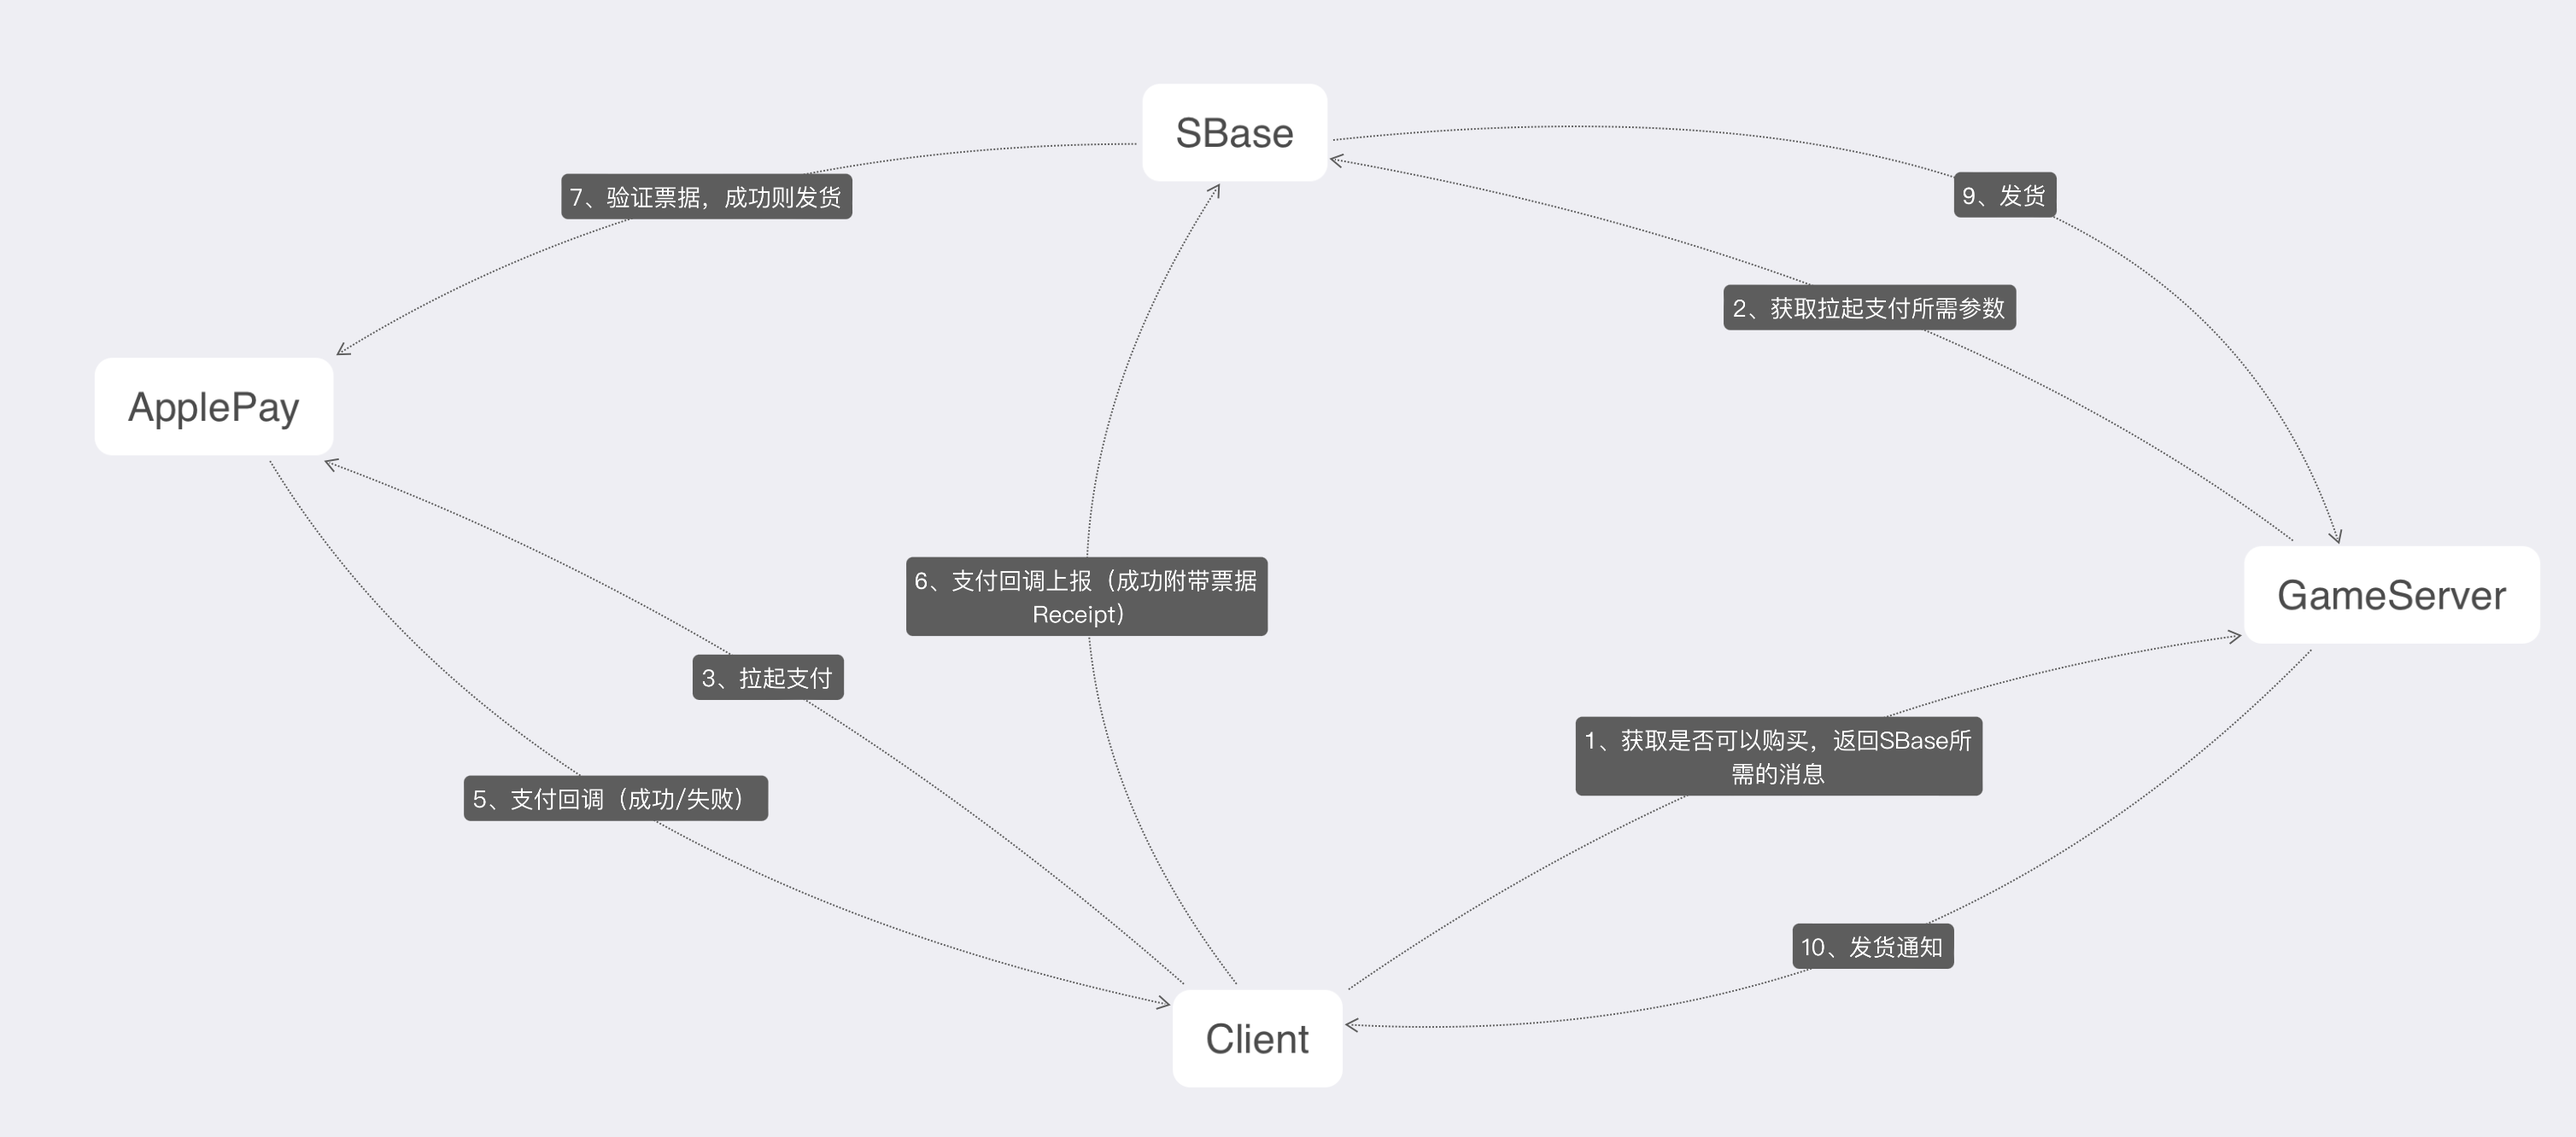
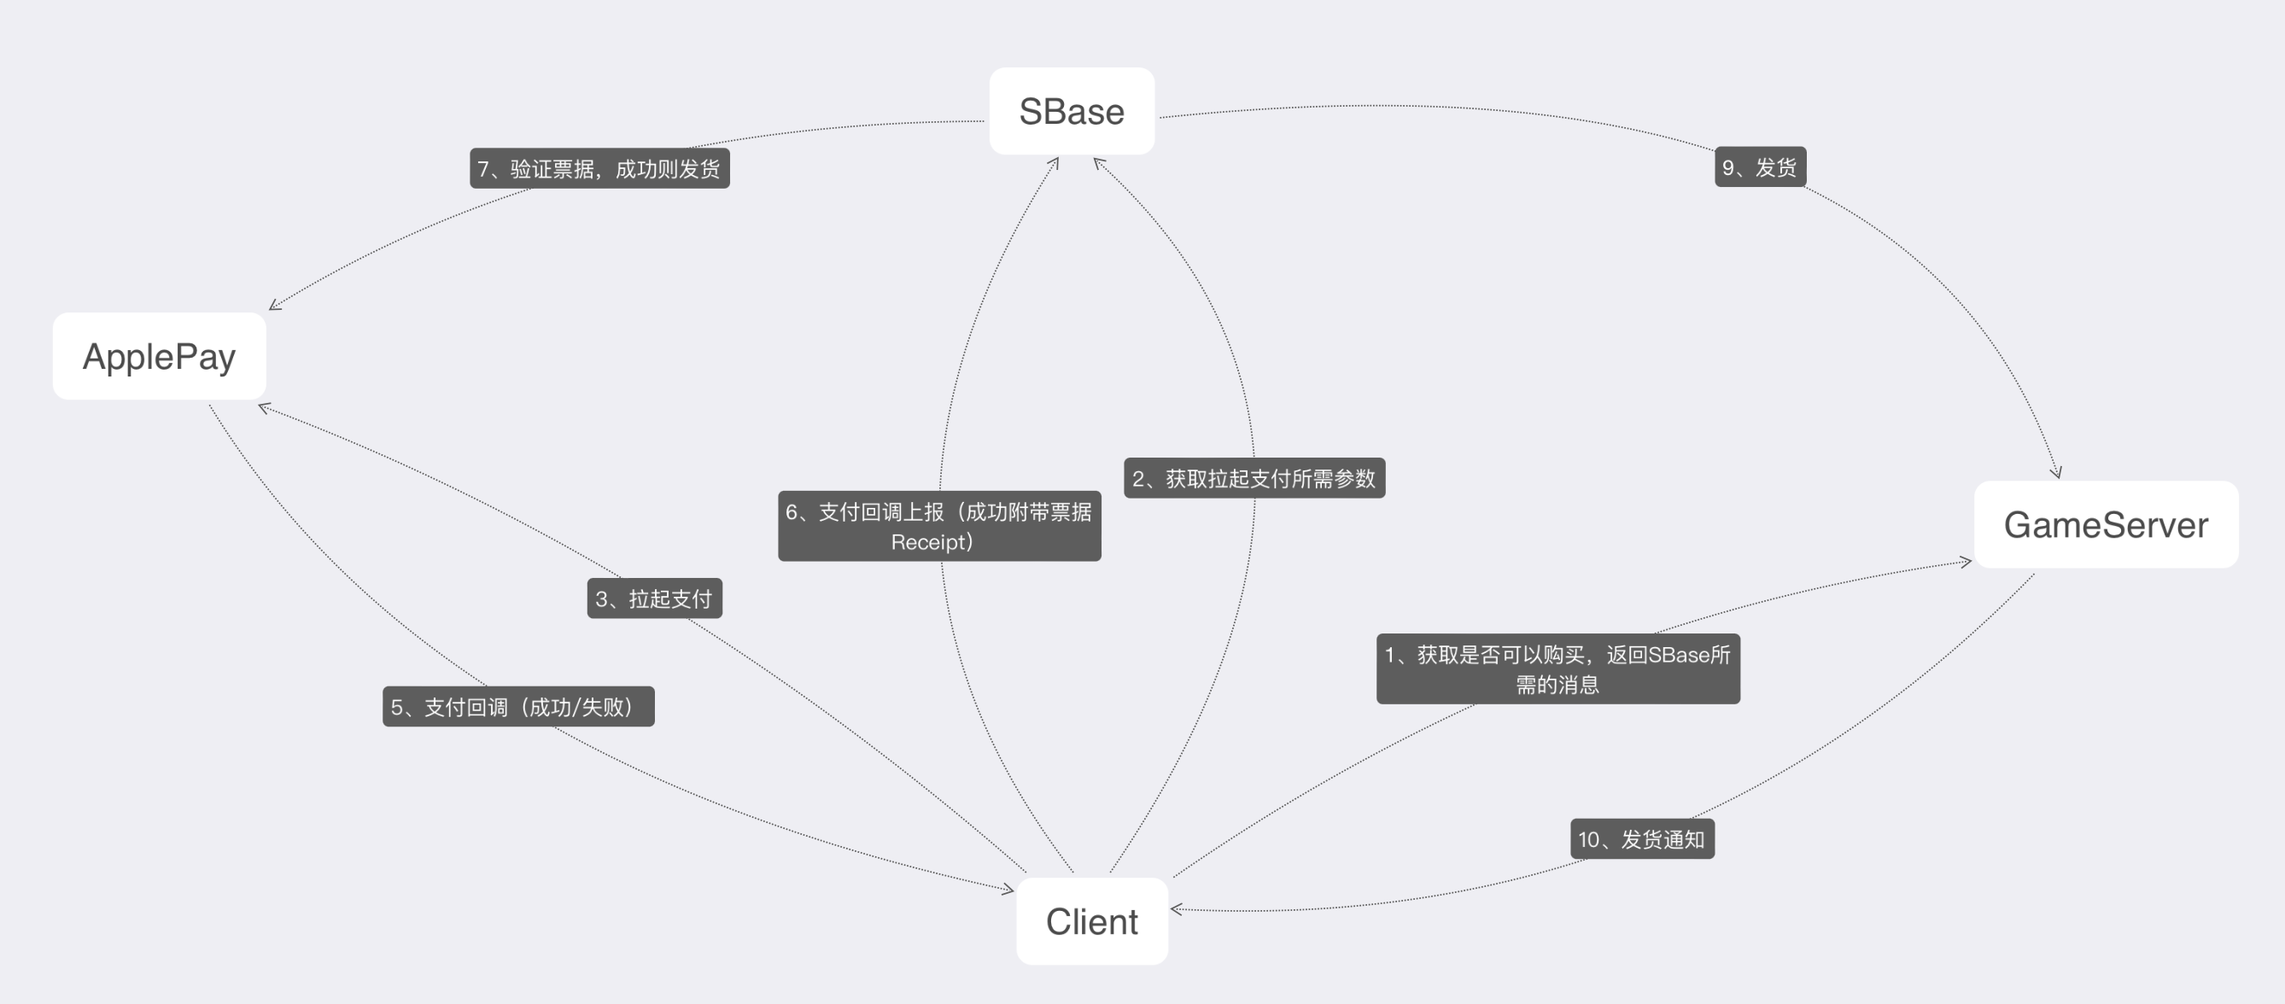
【支付拉去参数--client】

diff --git a/后端文档/README.md b/后端文档/README.md
@@ -9,8 +9,6 @@
 
 [防沉迷相关文档](#wlc)
 ### 支付
-[支付下单](#transaction)
-
 [支付发货](#sendgoods)
 
 ### 签名
@@ -65,78 +63,10 @@ WlcLoginTraceResp struct {
 
 ## 支付
 PF常用支付流程图
-![支付流程图](../image/pay.png)
+![支付流程图](../image/Pay.png)
 
-### <a id="transaction">支付下单</a>
-路径：/Transaction
-
-```
-Method: POST
-ContentType: application/json
-```
-
-```go
-
-//支付类型
-const (
-    TA_WECHAT_APP    TypeTransaction = "WX_APP"    // 微信APP
-    TA_WECHAT_NATIVE TypeTransaction = "WX_NATIVE" // 微信NATIVE
-    TA_ALI           TypeTransaction = "ALI"       // 支付宝
-    TA_APPLE         TypeTransaction = "AP"        // 苹果
-)
-
-type TypeTransaction string
-
-//货币信息
-type Amount struct {
-    Total    float64 `json:"total"`   // 总金额
-    Currency string  `json:"currency"`  // 货币类型 可不填，不填情况下默认为 CNY：人民币
-}
-
-//下单请求
-type TransactionRequest struct {
-    GameOrderId   string          `json:"game_order_id"`  // 游戏订单ID
-    Desc          string          `json:"description"`      // 订单描述
-    Amount        Amount          `json:"amount"`        // 货币信息
-    GameNotifyUrl string          `json:"game_notify_url"`  // 游戏回调地址
-    Attach        string          `json:"attach"`     // 附加信息 服务器透传，回调时原样返回
-    SGameId       string          `json:"s_game_id"`    // 游戏标识
-    Type          TypeTransaction `json:"type"`       // 支付类型
-    IsSandbox     bool            `json:"is_sandbox"`   // 是否沙盒测试 仅苹果支付有效 默认为false
-
-    Uid     int64           `json:"uid"` // 玩家唯一标识
-    Sign    string `json:"sign"`    // 签名 详见签名规则
-    ReqTime string `json:"req_time"`    // 请求时间(时间戳)
-}
-
-//下单响应
-type TransactionResponse struct {
-    Code  int              `json:"code"`
-    Type  TypeTransaction  `json:"type"`
-    Param TransactionParam `json:"param"`
-}
-
-//掉起支付参数
-type TransactionParam struct {
-    WeChatAppPayParam        *wechat.AppPayParams `json:"wechat_app_pay_param"` // 微信支付参数
-    AliOrderInfo             string               `json:"ali_order_info"`   // 支付宝支付参数
-    AppleApplicationUsername string               `json:"apple_application_username"`   // 苹果支付参数
-}
-
-//wechat.AppPayParams
-type AppPayParams struct {
-    Appid     string `json:"appid"`  
-    Partnerid string `json:"partnerid"`
-    Prepayid  string `json:"prepayid"`
-    Package   string `json:"package"`
-    Noncestr  string `json:"noncestr"`
-    Timestamp string `json:"timestamp"`
-    Sign      string `json:"sign"`
-}
-```
-[签名规则](#sign)
-
-[code中台常量定义](#code)
+Apple支付流程图
+![支付流程图](../image/ApplePay.png)
 
 ### <a id="sendgoods">支付发货</a>
 
